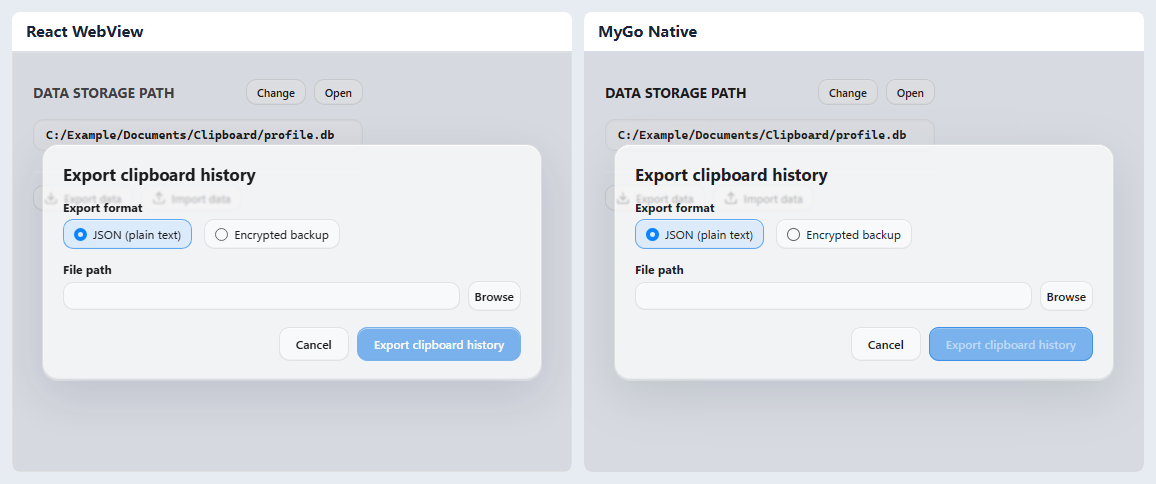
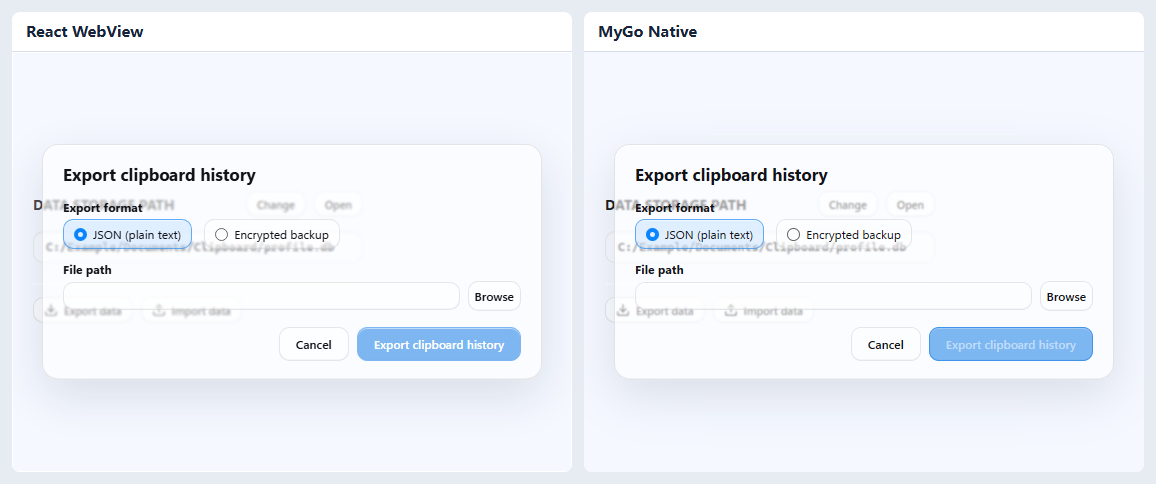
Preserve readable detail through Liquid Glass backup dialogs

diff --git a/packages/ui-react/src/styles/components/data-settings.css b/packages/ui-react/src/styles/components/data-settings.css
@@ -311,7 +311,8 @@
 }
 
 .theme-liquid-glass .data-modal-overlay {
-  --backup-panel-bg: rgba(255, 255, 255, calc(0.54 + 0.14 * var(--surface-layer-scale, 1)));
+  --text-primary: #111217;
+  --backup-panel-bg: rgba(255, 255, 255, calc(0.50 + 0.05 * var(--surface-layer-scale, 1)));
   --backup-panel-border: var(--lg-dialog-border);
   --backup-panel-shadow: var(--lg-dialog-shadow);
   --backup-panel-radius: 16px;
@@ -327,25 +328,24 @@
   --backup-primary-hover-bg: var(--lg-dialog-button-primary-hover-bg);
 }
 
-:is(.theme-macos, .theme-liquid-glass) .data-modal-overlay::backdrop {
+.theme-macos .data-modal-overlay::backdrop {
   background: rgba(0, 0, 0, 0.18);
   backdrop-filter: none;
 }
 
-:is(.theme-macos, .theme-liquid-glass).dark-mode .data-modal-overlay::backdrop {
+.theme-macos.dark-mode .data-modal-overlay::backdrop {
   background: rgba(0, 0, 0, 0.36);
 }
 
 .theme-liquid-glass .data-modal-overlay::backdrop {
-  background: rgba(0, 0, 0, 0.12);
+  background: transparent;
+  backdrop-filter: none;
+  -webkit-backdrop-filter: none;
 }
 
 .theme-liquid-glass.dark-mode .data-modal-overlay {
-  --backup-panel-bg: rgba(38, 41, 52, calc(0.59 + 0.14 * var(--surface-layer-scale, 1)));
-}
-
-.theme-liquid-glass.dark-mode .data-modal-overlay::backdrop {
-  background: rgba(0, 0, 0, 0.18);
+  --text-primary: #f9faff;
+  --backup-panel-bg: rgba(16, 18, 24, calc(0.60 + 0.05 * var(--surface-layer-scale, 1)));
 }
 
 :is(.theme-macos, .theme-liquid-glass) .data-modal-content {
@@ -357,9 +357,9 @@
 }
 
 .theme-liquid-glass .data-modal-content {
-  /* A small radius softens edges while preserving fine detail through the glass. */
-  backdrop-filter: blur(1px);
-  -webkit-backdrop-filter: blur(1px);
+  /* Subpixel blur softens glyph edges while leaving their strokes visible. */
+  backdrop-filter: blur(0.9px);
+  -webkit-backdrop-filter: blur(0.9px);
 }
 
 :is(.theme-macos, .theme-liquid-glass) .data-modal-title {

diff --git a/packages/ui-react/showcase/form-menu-fixtures.tsx b/packages/ui-react/showcase/form-menu-fixtures.tsx
@@ -166,7 +166,7 @@ export function BackupDialogFixture({ state }: { state: string }) {
     <BackupField label="File path" value={path} readOnly browse="Browse" />
     {restoring && <BackupPreview label="Preview entries" entries={["Release checklist", "Example screenshot", "Draft notes"]} />}
   </BackupDialog>;
-  return state === "glass" ? <><SettingsDataFixture />{dialog}</> : dialog;
+  return state === "glass" ? <><div className="showcase-backup-underlay"><SettingsDataFixture /></div>{dialog}</> : dialog;
 }
 
 export function SettingsUpdateFixture({ state }: { state: string }) {

diff --git a/packages/ui-react/showcase/showcase.css b/packages/ui-react/showcase/showcase.css
@@ -42,6 +42,9 @@ html:root.showcase-opacity-background {
   max-width: 330px;
   font-size: 14px;
 }
+.showcase-backup-underlay {
+  padding-top: 112px;
+}
 .settings-view.showcase-background-config,
 .settings-view.showcase-capture-config {
   padding: 0;

diff --git a/packages/ui-native/uikit/backup_material_test.go b/packages/ui-native/uikit/backup_material_test.go
@@ -11,7 +11,7 @@ func TestBackupGlassSoftensOnlyTheAreaCoveredByTheDialog(t *testing.T) {
 	open := false
 	kit := Kit{widgets: map[string]theme.WidgetStyle{
 		"backupBackdrop": {Opacity: 1},
-		"backupDialog":   {Width: 220, Radius: 16, BackdropBlur: 1, Opacity: 1, Fill: [4]uint8{255, 255, 255, 161}},
+		"backupDialog":   {Width: 220, Radius: 16, BackdropBlur: 0.9, Opacity: 1, Fill: [4]uint8{255, 255, 255, 140}},
 	}}
 	view := ui.NewTester(func(c *ui.Context) {
 		ui.Box(c).Fill().Background(ui.RGB(255, 255, 255)).Draw(func(p *ui.Painter, bounds ui.Rect) {
@@ -39,7 +39,7 @@ func TestBackupGlassSoftensOnlyTheAreaCoveredByTheDialog(t *testing.T) {
 	stroke := int(withDialog.RGBAAt(141, 140).R)
 	edge := int(withDialog.RGBAAt(142, 140).R)
 	dark, bright := int(withDialog.RGBAAt(210, 140).R), int(withDialog.RGBAAt(165, 140).R)
-	if bright-stroke < 50 || bright-edge < 10 || edge <= stroke || bright-dark < 90 {
+	if bright-stroke < 65 || bright-edge < 8 || edge <= stroke || bright-dark < 110 {
 		t.Errorf("glass should retain a two-pixel stroke with softened edges: stroke=%d, edge=%d, dark=%d, light=%d", stroke, edge, dark, bright)
 	}
 }

diff --git a/packages/ui-presets/cmd/dzc-ui-gallery/parity_fixtures.go b/packages/ui-presets/cmd/dzc-ui-gallery/parity_fixtures.go
@@ -371,7 +371,9 @@ func (g *gallery) historyTypographyFixture(c *ui.Context, kit uikit.Kit) {
 
 func (g *gallery) backupDialogFixture(c *ui.Context, kit uikit.Kit) {
 	if g.state == "glass" {
-		g.parityFixture(c, kit, "settings-data")
+		ui.Column(c).Padding(112, 0, 0).Children(func() {
+			g.parityFixture(c, kit, "settings-data")
+		})
 	}
 	replacing := strings.HasPrefix(g.state, "replace")
 	open, restoring := true, g.state == "import" || replacing
